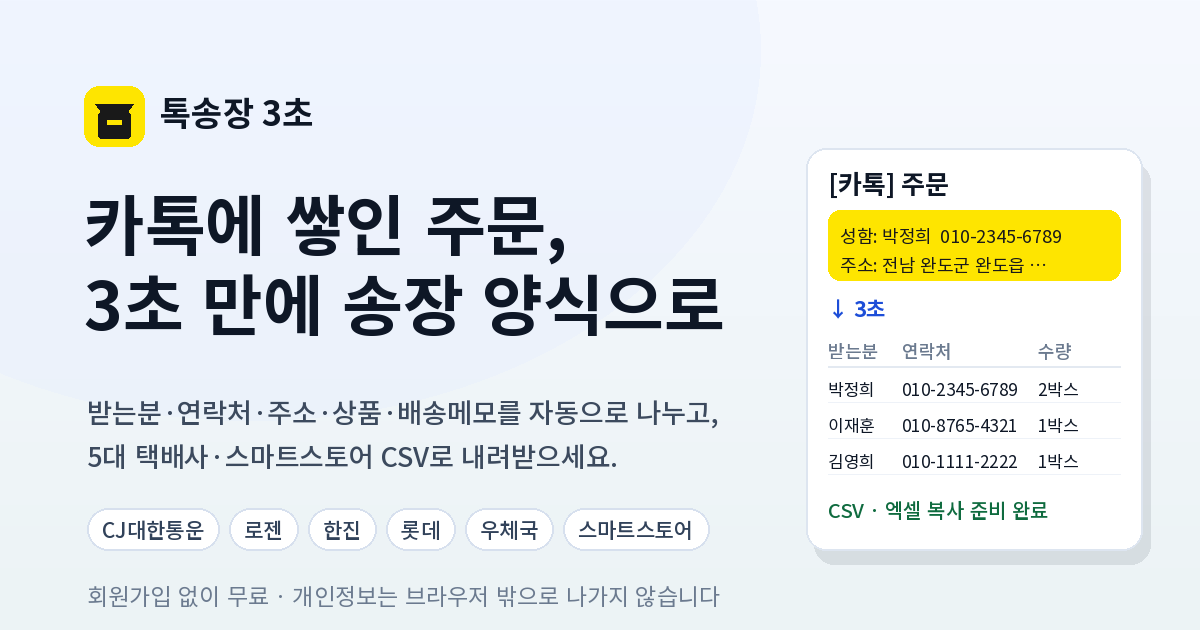
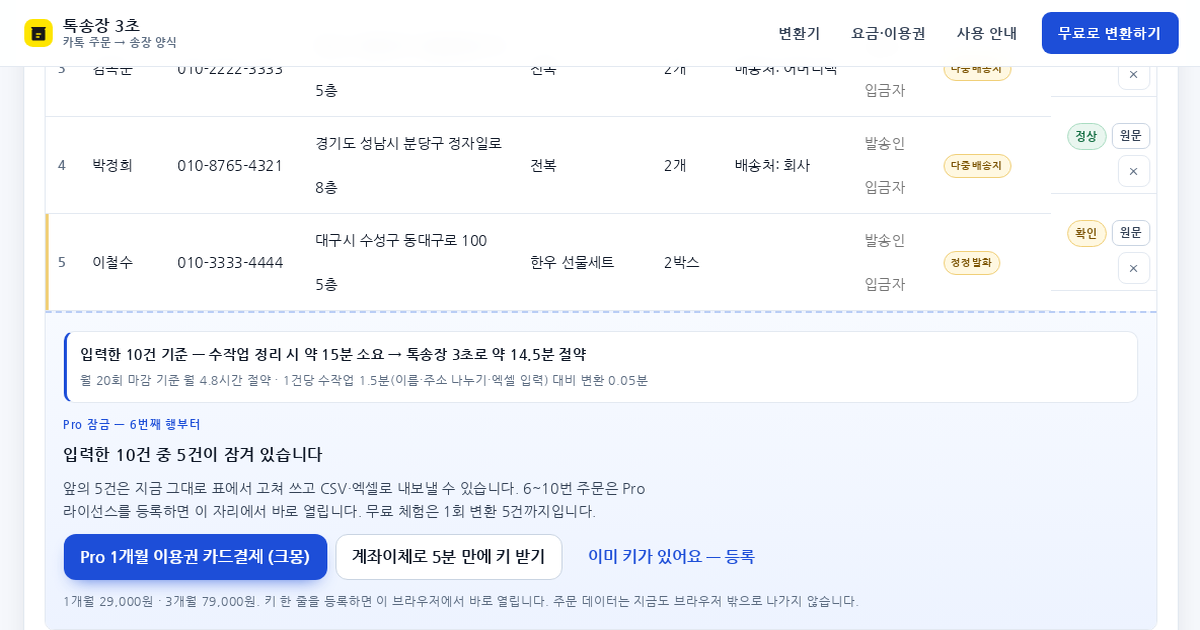
feat(invoice): OG 이미지를 5건 무료·Pro 29,000원 최신 화면으로 교체, 캡처 하니스 제거

diff --git a/kakao-invoice/index.html b/kakao-invoice/index.html
@@ -20,7 +20,7 @@
 <meta property="og:title" content="톡송장 3초 — 카톡 주문, 3초 만에 송장 양식으로">
 <meta property="og:description" content="주문 대화를 통째로 붙여넣으면 받는분·연락처·주소·상품·배송메모를 자동으로 나눠 5대 택배사·스마트스토어 CSV로 저장합니다. 회원가입 없이 1회 5건 무료, 6건 이상은 Pro 월 29,000원.">
 <meta property="og:url" content="https://doggonug-cpu.github.io/kakao-invoice/">
-<meta property="og:image" content="https://doggonug-cpu.github.io/kakao-invoice/og-image.png?v=20261122">
+<meta property="og:image" content="https://doggonug-cpu.github.io/kakao-invoice/og-image.png?v=20261122f">
 <meta property="og:image:width" content="1200">
 <meta property="og:image:height" content="630">
 <meta property="og:image:alt" content="톡송장 3초 — 카톡 주문 정리 화면. 1회 5건 무료, 6건 이상 Pro 월 29,000원">
@@ -28,7 +28,7 @@
 <meta name="twitter:card" content="summary_large_image">
 <meta name="twitter:title" content="톡송장 3초 — 카톡 주문, 3초 만에 송장 양식으로">
 <meta name="twitter:description" content="카톡 주문을 붙여넣으면 택배 송장 CSV로. 1회 5건 무료, 6건 이상 Pro(월 29,000원). 개인정보는 브라우저 안에서만.">
-<meta name="twitter:image" content="https://doggonug-cpu.github.io/kakao-invoice/og-image.png?v=20261122">
+<meta name="twitter:image" content="https://doggonug-cpu.github.io/kakao-invoice/og-image.png?v=20261122f">
 
 <link rel="icon" href="icons/favicon.svg" type="image/svg+xml">
 <link rel="stylesheet" href="styles.css?v=20261122e">
